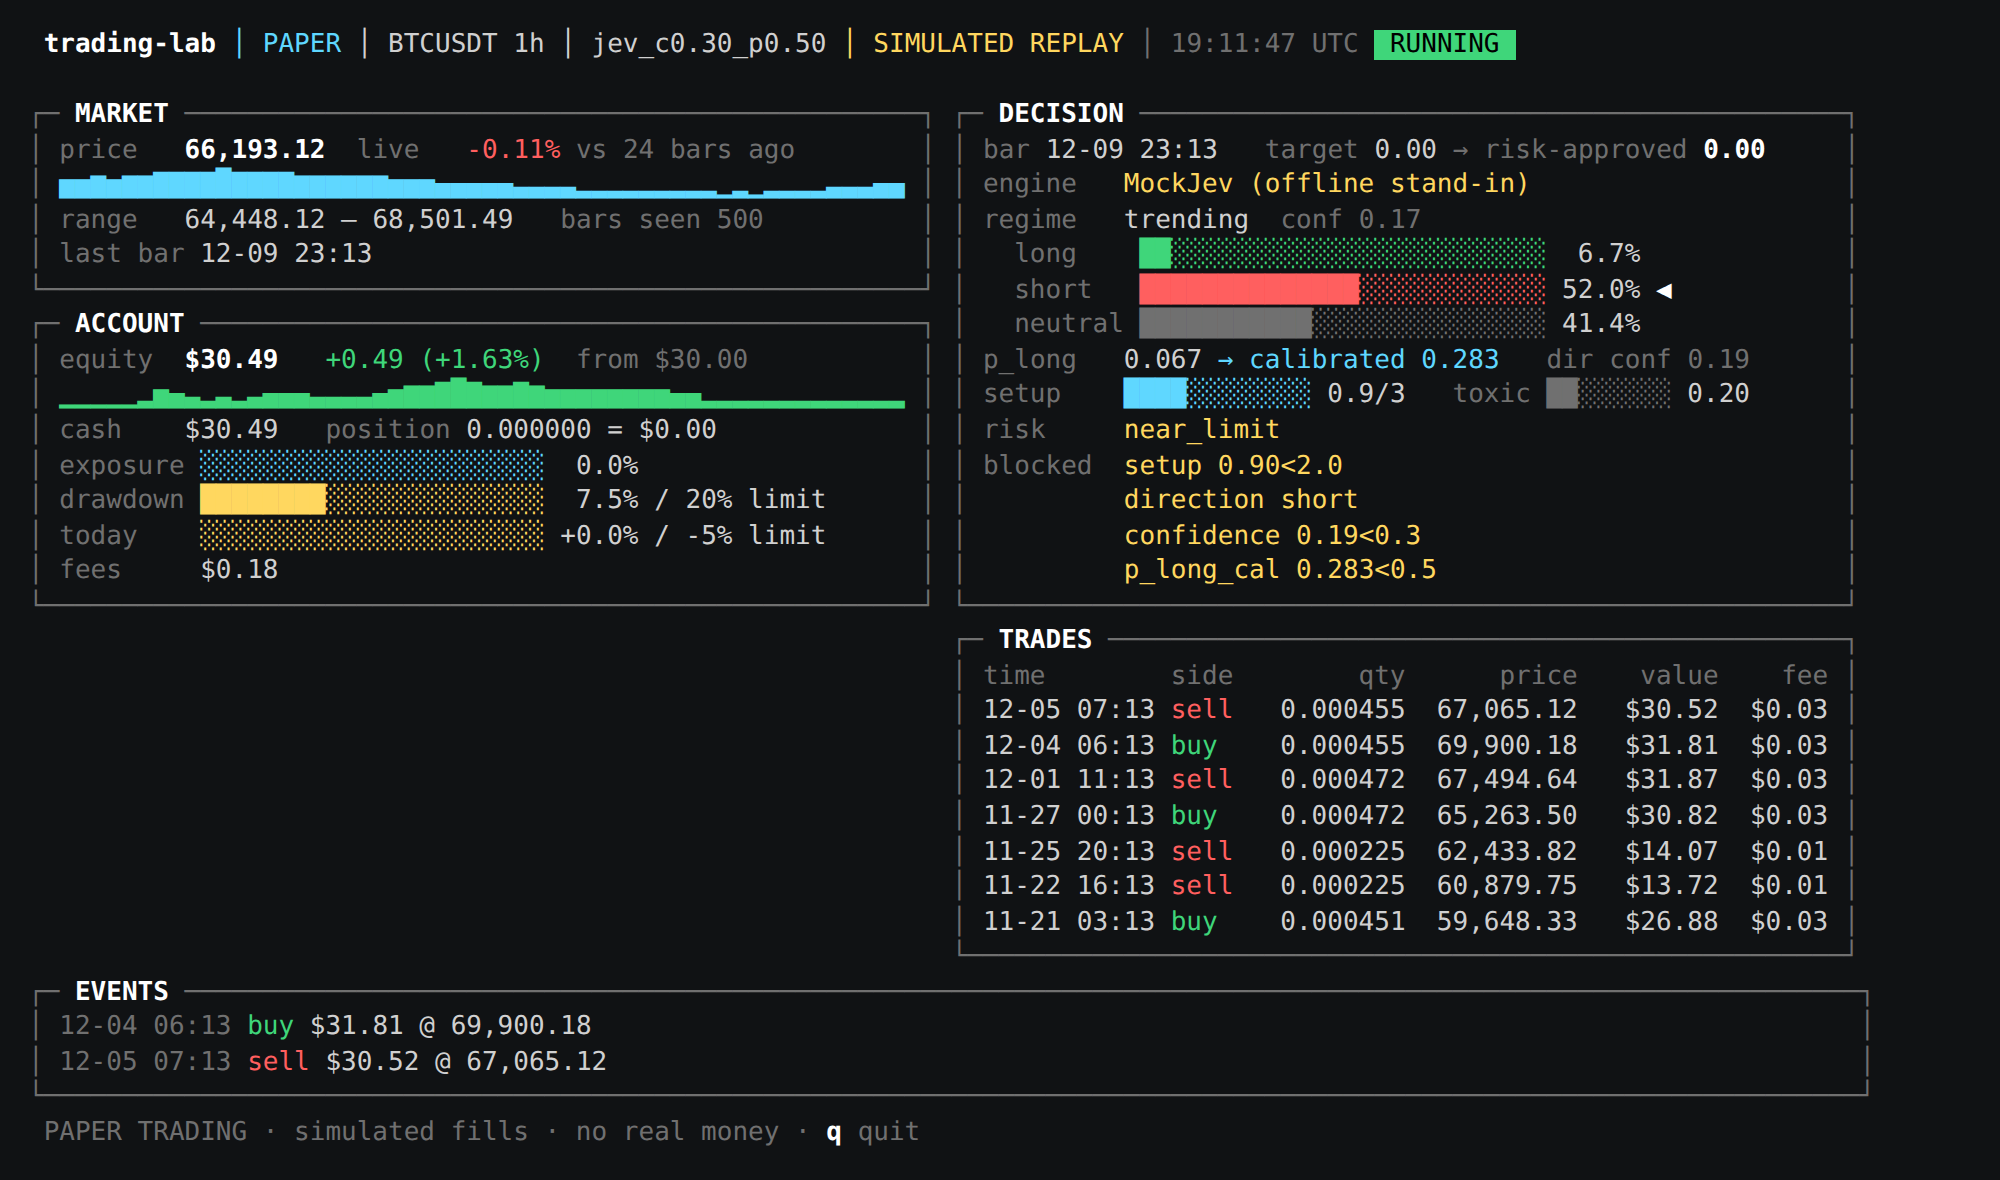
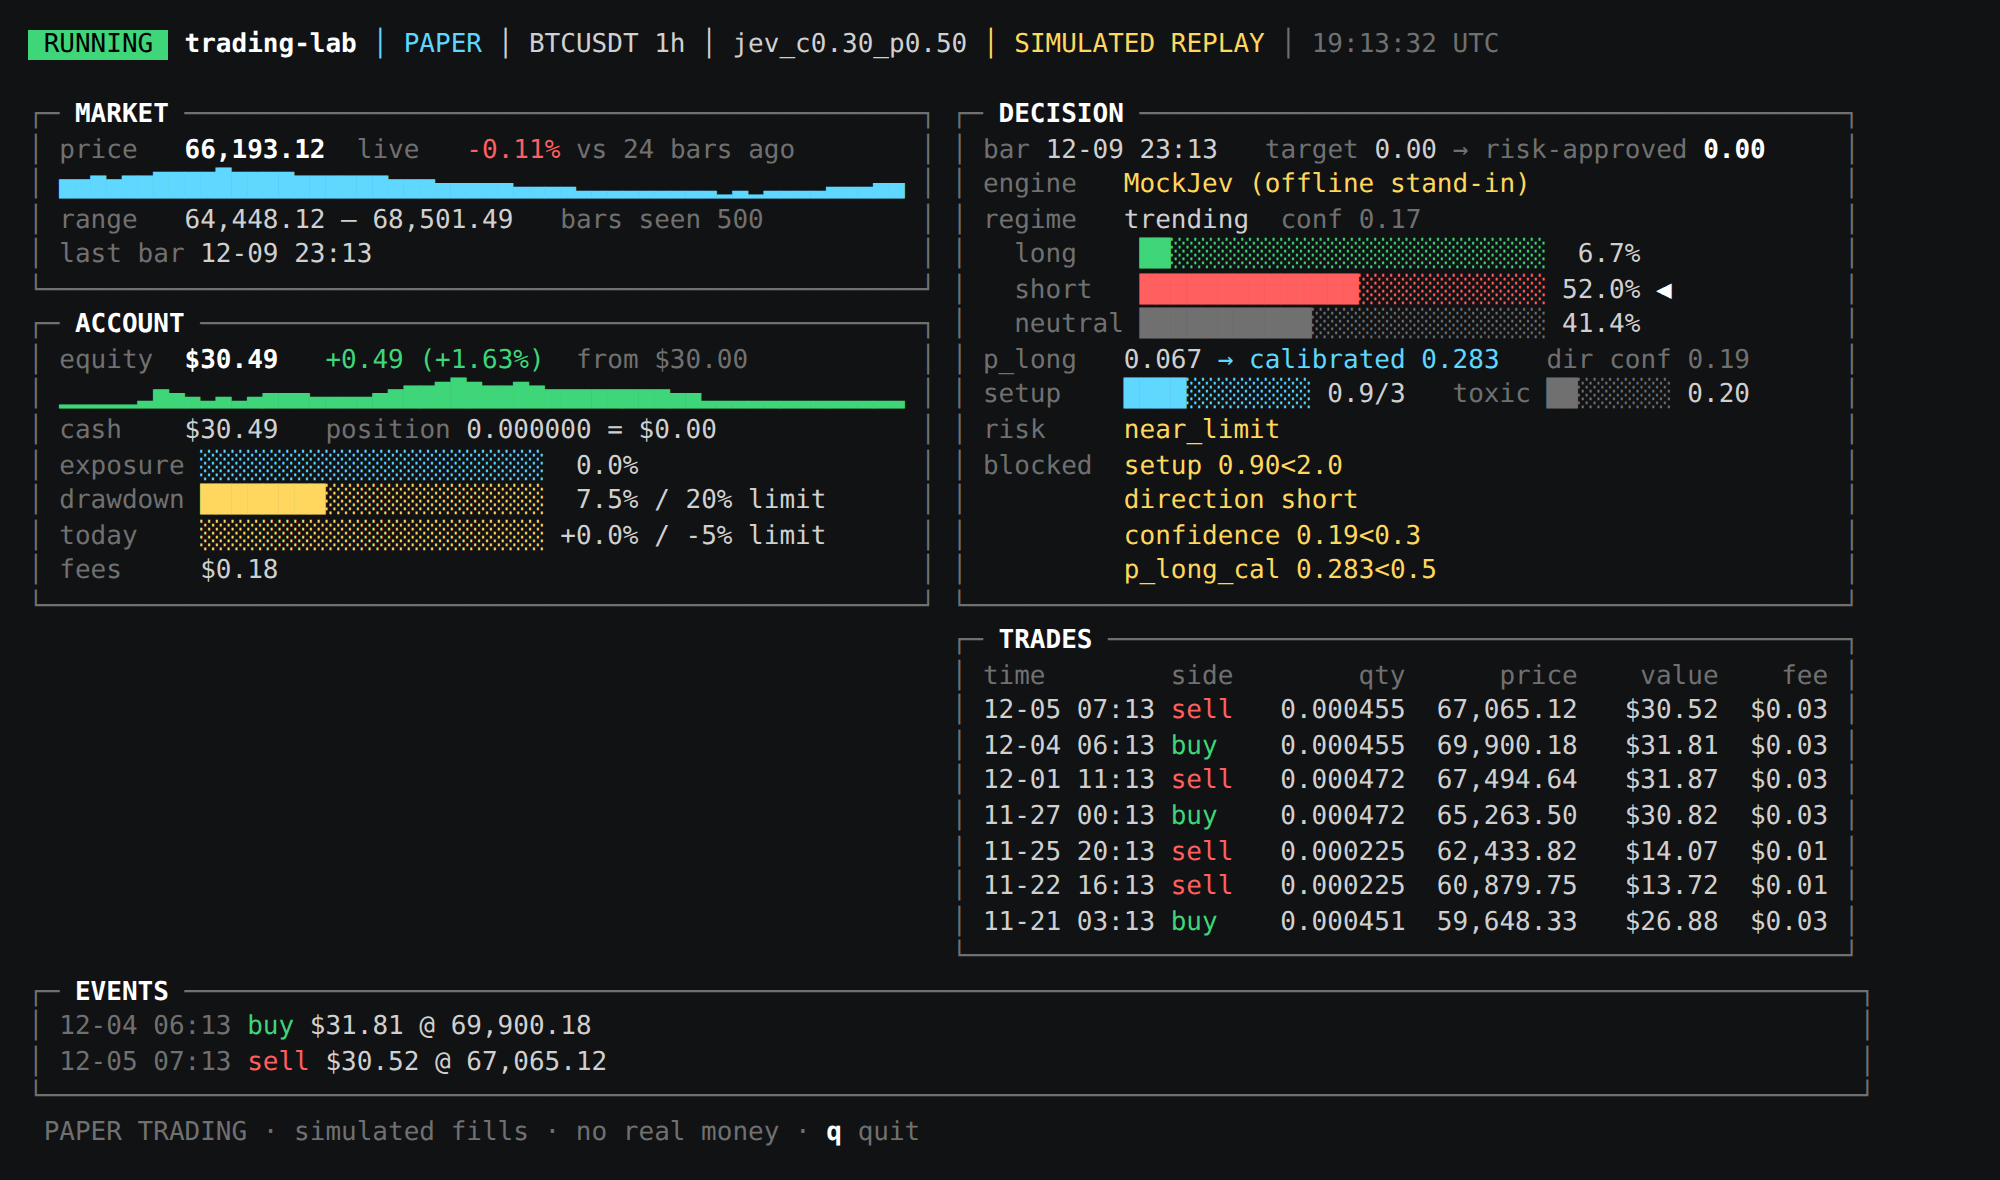
trading-lab: clip dashboard lines to terminal width, status badge first
Fixes the failing dashboard test from the previous commit: the header
overflowed narrow terminals in --once/--snapshot output. Lines are now
clipped to the width, and the status badge leads the header so it is
never the part cut off.

Claude-Session: https://claude.ai/code/session_01U2eXBMMMktxGMa3uyE9JUb

Changed region(s): [[0.0, 0.0, 0.775, 0.061]]

diff --git a/trading-lab/trading_lab/dashboard.py b/trading-lab/trading_lab/dashboard.py
@@ -99,6 +99,17 @@ def seg_len(line: Line) -> int:
     return sum(len(t) for t, _ in line)
 
 
+def clip(line: Line, width: int) -> Line:
+    out, used = [], 0
+    for text, style in line:
+        if used >= width:
+            break
+        text = text[: width - used]
+        out.append((text, style))
+        used += len(text)
+    return out
+
+
 def box(title: str, body: list[Line], width: int) -> list[Line]:
     inner = width - 4
     out = [[("┌─ ", "dim"), (title, "title"), (" " + "─" * max(0, width - len(title) - 5) + "┐", "dim")]]
@@ -153,11 +164,11 @@ def frame(state: dict, rows: list[dict], width: int, now_ms: int | None = None) 
 
     label, badge = status(state, now_ms)
     mode = state.get("mode", "live data")
-    header = [(" trading-lab ", "title"), ("│ PAPER ", "accent"),
+    header = [(f" {label} ", badge), (" trading-lab ", "title"), ("│ PAPER ", "accent"),
               (f"│ {state.get('symbol', '-')} {interval} ", "normal"),
               (f"│ {state.get('strategy_id', '-')} ", "normal"),
               (f"│ {mode} ", "warn" if "SIMULATED" in mode.upper() else "dim"),
-              (f"│ {datetime.now(timezone.utc):%H:%M:%S} UTC ", "dim"), (f" {label} ", badge)]
+              (f"│ {datetime.now(timezone.utc):%H:%M:%S} UTC ", "dim")]
 
     two_col = width >= 100
     colw = (width - 1) // 2 if two_col else width
@@ -278,7 +289,7 @@ def frame(state: dict, rows: list[dict], width: int, now_ms: int | None = None) 
         out += left + right
     out += box("EVENTS", events, width)
     out.append([(" PAPER TRADING · simulated fills · no real money · ", "dim"), ("q", "title"), (" quit", "dim")])
-    return out
+    return [clip(line, width) for line in out]
 
 
 def to_ansi(lines: list[Line]) -> str:
